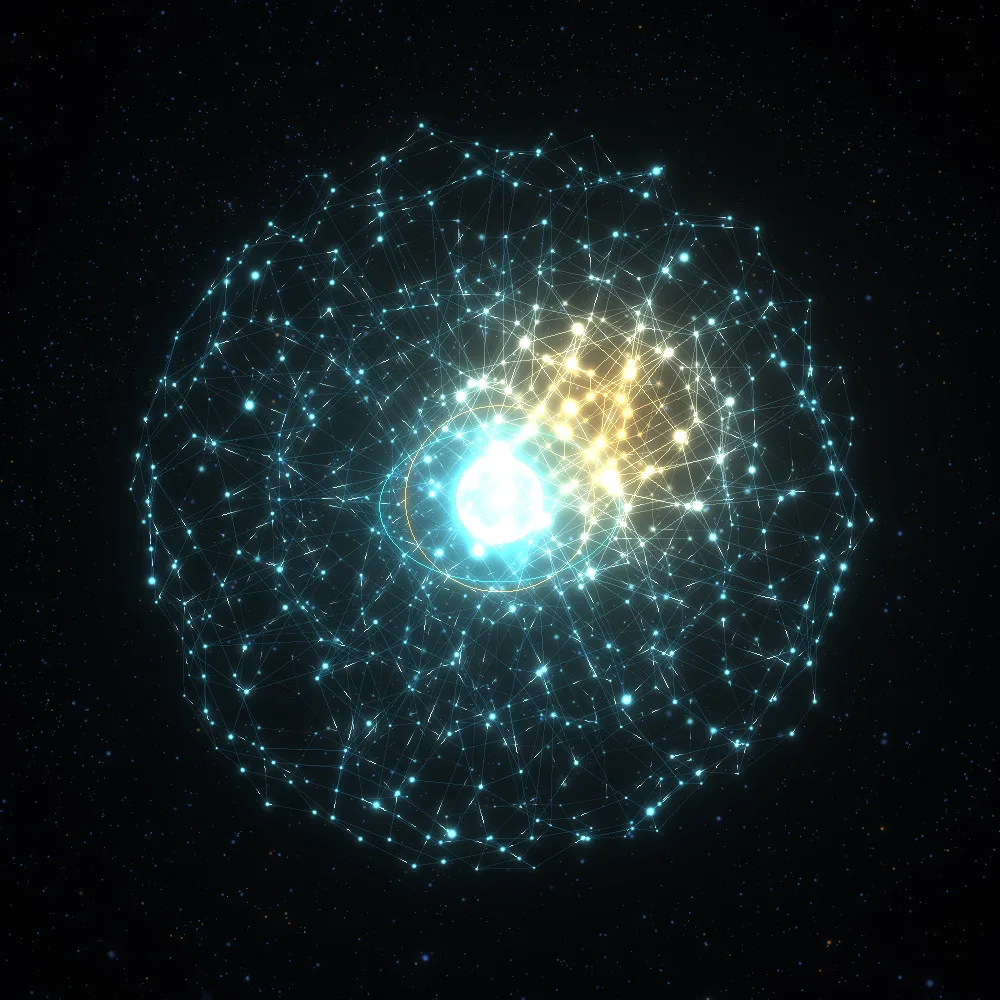
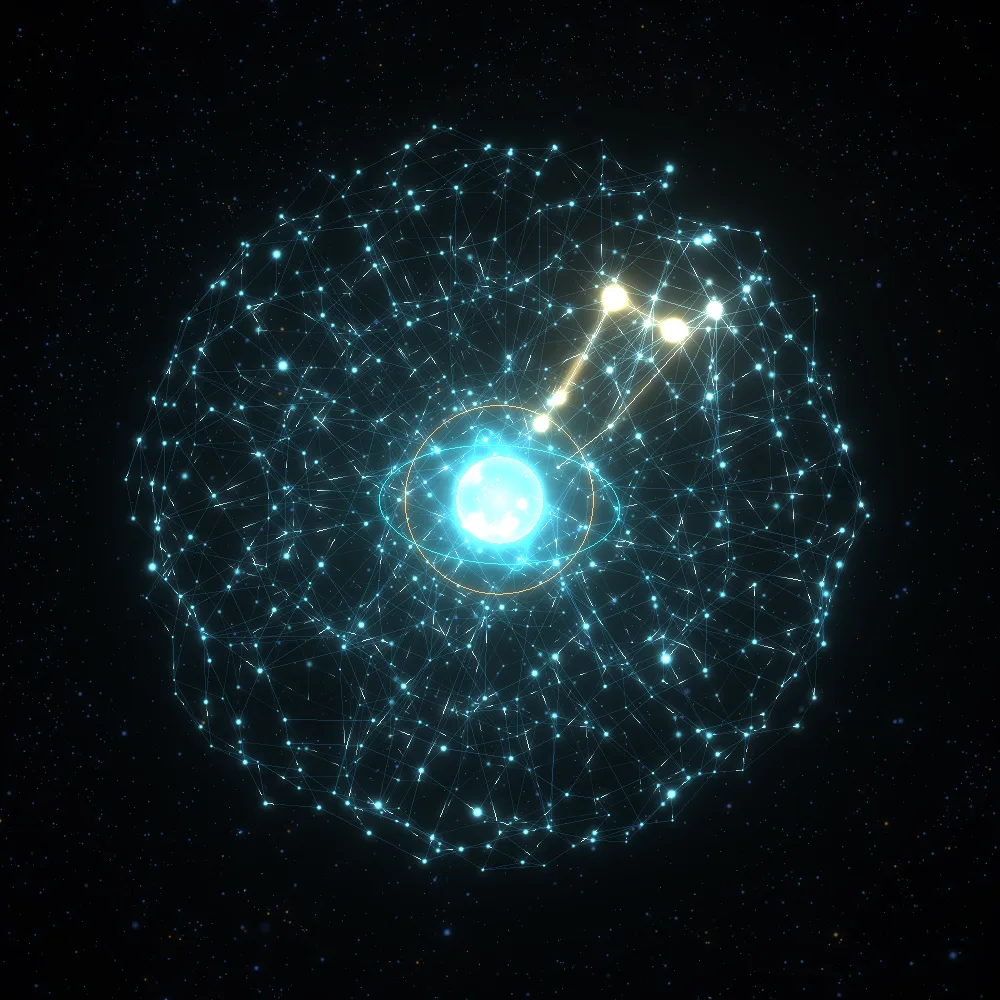
feat: 생각의 경로 — 커서가 가리키는 노드까지 중심에서 금색 경로가 이어짐
- 그래프의 최단 경로 트리(buildPathTree)와 테스트
- 경로 위의 연결선과 노드를 매 프레임 갱신, 중심 쪽부터 차례로 점등
- 파동과 커서 주변은 청록으로만 밝아지게 하고 금색은 경로와 도메인에만 사용
- 포스터·OG 이미지 갱신, 스펙에 반영

Claude-Session: https://claude.ai/code/session_01KHnMz2SQ8CTgWcbkeDqo96

Changed region(s): [[0.124, 0.124, 0.868, 0.868]]

diff --git a/src/components/hero/scene.ts b/src/components/hero/scene.ts
@@ -3,7 +3,9 @@ import * as THREE from 'three';
 import { EffectComposer } from 'three/addons/postprocessing/EffectComposer.js';
 import { RenderPass } from 'three/addons/postprocessing/RenderPass.js';
 import { UnrealBloomPass } from 'three/addons/postprocessing/UnrealBloomPass.js';
-import { buildGraph, mulberry32, randomDirection, SHELLS_HIGH, SHELLS_LOW } from './graph';
+import {
+  buildGraph, buildPathTree, mulberry32, nearestOuterNode, pathEdges, randomDirection, SHELLS_HIGH, SHELLS_LOW,
+} from './graph';
 import { domainReveal, smoothstep, stageValues } from './stages';
 import * as GLSL from './shaders';
 
@@ -69,7 +71,7 @@ export function createHeroScene(canvas: HTMLCanvasElement, opts: HeroSceneOption
     uRDir: { value: [new THREE.Vector3(0, 1, 0), new THREE.Vector3(0, 1, 0), new THREE.Vector3(0, 1, 0)] },
     uRT: { value: [99, 99, 99] }, uRAmp: { value: [0, 0, 0] },
     uMouse: { value: new THREE.Vector2(0.2, 0.1) }, uAspect: { value: 1 }, uPx: { value: 28 },
-    uCamZ: { value: 3.8 }, uDim: { value: 1 }, uEnergy: { value: 0 }, uDomain: { value: 0 }, uDomainCount: { value: opts.domainCount }, uHotR: { value: 0.42 },
+    uCamZ: { value: 3.8 }, uDim: { value: 1 }, uEnergy: { value: 0 }, uDomain: { value: 0 }, uDomainCount: { value: opts.domainCount }, uHotR: { value: 0.24 },
   };
   const additive = (vertexShader: string, fragmentShader: string) =>
     new THREE.ShaderMaterial({
@@ -84,9 +86,12 @@ export function createHeroScene(canvas: HTMLCanvasElement, opts: HeroSceneOption
     return obj;
   };
 
-  // 노드
+  // 노드. aNodePath는 생각의 경로 위에 있는 노드의 밝기로, 매 프레임 갱신한다.
+  const nodePathAttr = new THREE.BufferAttribute(new Float32Array(graph.count), 1);
+  nodePathAttr.setUsage(THREE.DynamicDrawUsage);
   {
     const g = new THREE.BufferGeometry();
+    g.setAttribute('aNodePath', nodePathAttr);
     f32(g, 'position', graph.positions, 3);
     f32(g, 'aFrom', graph.from, 3);
     f32(g, 'aSeed', graph.seeds, 1);
@@ -94,23 +99,29 @@ export function createHeroScene(canvas: HTMLCanvasElement, opts: HeroSceneOption
     add(new THREE.Points(g, additive(GLSL.NODE_VERT, GLSL.NODE_FRAG)));
   }
 
-  // 연결선과 신호
+  // 연결선과 신호. aPath는 "생각의 경로"에 속한 선의 밝기로, 매 프레임 갱신한다.
+  const tree = buildPathTree(graph);
+  const edgeCount = graph.edges.length / 2;
+  const pathAttr = new THREE.BufferAttribute(new Float32Array(edgeCount * 2), 1);
+  pathAttr.setUsage(THREE.DynamicDrawUsage);
   {
     const n = graph.edges.length;
     const pos = new Float32Array(n * 3), from = new Float32Array(n * 3);
     const seed = new Float32Array(n), aT = new Float32Array(n), phase = new Float32Array(n), speed = new Float32Array(n);
+    const depth = new Float32Array(n);
     for (let e = 0; e < n; e += 2) {
       const ph = rnd(), sp = rnd() < 0.45 ? 0.15 + rnd() * 0.45 : 0;
       for (let k = 0; k < 2; k++) {
         const node = graph.edges[e + k], v = e + k;
         pos.set(graph.positions.subarray(node * 3, node * 3 + 3), v * 3);
         from.set(graph.from.subarray(node * 3, node * 3 + 3), v * 3);
-        seed[v] = graph.seeds[node]; aT[v] = k; phase[v] = ph; speed[v] = sp;
+        seed[v] = graph.seeds[node]; aT[v] = k; phase[v] = ph; speed[v] = sp; depth[v] = tree.depth[node];
       }
     }
     const g = new THREE.BufferGeometry();
     f32(g, 'position', pos, 3); f32(g, 'aFrom', from, 3); f32(g, 'aSeed', seed, 1);
-    f32(g, 'aT', aT, 1); f32(g, 'aPhase', phase, 1); f32(g, 'aSpeed', speed, 1);
+    f32(g, 'aT', aT, 1); f32(g, 'aPhase', phase, 1); f32(g, 'aSpeed', speed, 1); f32(g, 'aDepth', depth, 1);
+    g.setAttribute('aPath', pathAttr);
     add(new THREE.LineSegments(g, additive(GLSL.EDGE_VERT, GLSL.EDGE_FRAG)));
   }
 
@@ -217,6 +228,11 @@ export function createHeroScene(canvas: HTMLCanvasElement, opts: HeroSceneOption
   let slot = 0, lastRipple = 0, shockAmp = 1, nextShock = 3.2;
   let time = 0, last = 0, raf = 0, running = false, disposed = false, fps = 60;
 
+  // 생각의 경로 상태. pathFlag: 지금 경로에 속하는가, pathReadyAt: 언제부터 켜질 수 있는가(중심에서 가까운 선부터 차례로)
+  const pathFlag = new Uint8Array(edgeCount), pathStrength = new Float32Array(edgeCount), pathReadyAt = new Float32Array(edgeCount);
+  const pathScratch = new Uint8Array(edgeCount), pathDir: [number, number, number] = [0, 0, 1];
+  let pathNode = -1;
+
   const ray = new THREE.Raycaster();
   const hit = new THREE.Vector3(), tmp = new THREE.Vector3(), ndc = new THREE.Vector2();
   const sphere = new THREE.Sphere();
@@ -242,11 +258,62 @@ export function createHeroScene(canvas: HTMLCanvasElement, opts: HeroSceneOption
     slot = (slot + 1) % 3;
   };
 
+  // 커서가 가리키는 노드가 바뀌면 경로를 다시 잡는다. 새로 들어온 선만 중심 쪽부터 순서대로 켠다.
+  function setPathNode(node: number) {
+    if (node === pathNode) return;
+    pathNode = node;
+    pathScratch.fill(0);
+    if (node >= 0) {
+      for (const e of pathEdges(tree, node)) {
+        pathScratch[e] = 1;
+        if (!pathFlag[e]) {
+          const fromCore = Math.max(tree.depth[graph.edges[e * 2]], tree.depth[graph.edges[e * 2 + 1]]) - 1;
+          pathReadyAt[e] = time + fromCore * 0.03;
+        }
+      }
+    }
+    pathFlag.set(pathScratch);
+  }
+
+  function updatePath(dt: number, dom: number) {
+    const dir = asm >= 1 && dom < 0.25 ? hitDirection(tmx, tmy) : null;
+    if (dir) {
+      pathDir[0] = dir.x; pathDir[1] = dir.y; pathDir[2] = dir.z;
+      setPathNode(nearestOuterNode(graph, pathDir));
+    } else setPathNode(-1);
+    const arr = pathAttr.array as Float32Array;
+    const rise = 1 - Math.exp(-dt * 16), fall = 1 - Math.exp(-dt * 3);
+    let dirty = false;
+    for (let e = 0; e < edgeCount; e++) {
+      const target = pathFlag[e] && time >= pathReadyAt[e] ? 1 : 0;
+      const s = pathStrength[e];
+      if (s === target) continue;
+      let next = s + (target - s) * (target > s ? rise : fall);
+      if (Math.abs(target - next) < 0.004) next = target;
+      pathStrength[e] = next;
+      arr[e * 2] = arr[e * 2 + 1] = next;
+      dirty = true;
+    }
+    if (!dirty) return;
+    pathAttr.needsUpdate = true;
+    // 경로 위의 노드도 함께 밝힌다
+    const nodes = nodePathAttr.array as Float32Array;
+    nodes.fill(0);
+    for (let e = 0; e < edgeCount; e++) {
+      const s = pathStrength[e];
+      if (s === 0) continue;
+      const a = graph.edges[e * 2], b = graph.edges[e * 2 + 1];
+      if (s > nodes[a]) nodes[a] = s;
+      if (s > nodes[b]) nodes[b] = s;
+    }
+    nodePathAttr.needsUpdate = true;
+  }
+
   function applyCamera(dom: number, camZ: number) {
     // 좁은 화면의 도메인 장면에서는 이름표가 화면 안에 들어오도록 카메라를 더 물린다
     const f = fit * (narrow ? 1 + 0.85 * dom : 1);
     camera.position.set(-mx * 0.3 * f, -my * 0.18 * f, camZ * f);
-    U.uHotR.value = 0.42 / f; // 커서 반응 반경은 화면이 아니라 구체 크기에 비례한다
+    U.uHotR.value = 0.24 / f; // 커서 반응 반경은 화면이 아니라 구체 크기에 비례한다
     camera.lookAt(0, 0, 0);
     // 구체 중심을 화면 가로 62%(좁은 화면은 위쪽 36%)에 두고, 도메인 장면에서는 가운데로 옮긴다
     const offX = narrow ? 0 : -0.12 * W * (1 - dom);
@@ -290,6 +357,8 @@ export function createHeroScene(canvas: HTMLCanvasElement, opts: HeroSceneOption
     U.uCamZ.value = camera.position.z;
     U.uDim.value = 1 - 0.55 * dom;
     U.uDomain.value = dom;
+
+    updatePath(dt, dom);
 
     // 충격파: 방치하면 3.4초마다 자동 발생
     U.uShockT.value += dt;
@@ -342,7 +411,7 @@ export function createHeroScene(canvas: HTMLCanvasElement, opts: HeroSceneOption
       travel += d;
       if (travel > 0.22) {
         travel = 0;
-        ripple(hitDirection(nx, ny), 0.6);
+        ripple(hitDirection(nx, ny), 0.3);
       }
     },
     setProgress(value) {

diff --git a/src/components/hero/shaders.ts b/src/components/hero/shaders.ts
@@ -40,48 +40,56 @@ const PLACE = /* glsl */ `
 
 export const NODE_VERT = /* glsl */ `
   ${PLACE}
-  attribute float aSize;
+  attribute float aSize, aNodePath;
+  varying float vNodePath;
   void main() {
     vec4 mv = place();
+    vNodePath = aNodePath;
     gl_Position = projectionMatrix * mv;
-    gl_PointSize = min(aSize * uPx * (1.0 + vHot * 1.6 + vWave * 1.4 + uEnergy * 0.4) / -mv.z, uPx * 2.6);
+    gl_PointSize = min(aSize * uPx * (1.0 + vHot * 1.2 + vWave * 1.4 + uEnergy * 0.4 + aNodePath * 2.1) / -mv.z, uPx * 2.6);
   }
 `;
 
 export const NODE_FRAG = /* glsl */ `
   uniform float uDim;
-  varying float vHot, vFade, vWave;
+  varying float vHot, vFade, vWave, vNodePath;
   void main() {
     float d = length(gl_PointCoord - 0.5);
     if (d > 0.5) discard;
     float c = 1.0 - smoothstep(0.06, 0.5, d);
-    float w = clamp(vHot + vWave * 1.5, 0.0, 1.0);
-    vec3 col = mix(vec3(0.42, 0.9, 1.0), vec3(1.0, 0.7, 0.3), w);
-    gl_FragColor = vec4(col * (0.5 + c * 0.9 + vWave * 0.6), c * vFade * uDim);
+    float w = clamp(vHot * 0.7 + vWave * 1.5, 0.0, 1.0);
+    // 파동과 커서 주변은 흰 청록으로 밝아지기만 한다. 금색은 생각의 경로와 도메인에만 쓴다.
+    vec3 col = mix(vec3(0.42, 0.9, 1.0), vec3(0.85, 1.0, 1.0), w);
+    col = mix(col, vec3(1.0, 0.82, 0.5), vNodePath); // 생각의 경로 위의 노드는 따뜻한 흰빛 구슬로
+    gl_FragColor = vec4(col * (0.5 + c * 0.9 + vWave * 0.6 + vNodePath * 0.9), c * max(vFade, vNodePath * 0.7) * uDim);
   }
 `;
 
 export const EDGE_VERT = /* glsl */ `
   ${PLACE}
-  attribute float aT, aPhase, aSpeed;
-  varying float vT, vPhase, vSpeed;
+  attribute float aT, aPhase, aSpeed, aPath, aDepth;
+  varying float vT, vPhase, vSpeed, vPath, vDepth;
   void main() {
-    vT = aT; vPhase = aPhase; vSpeed = aSpeed;
+    vT = aT; vPhase = aPhase; vSpeed = aSpeed; vPath = aPath; vDepth = aDepth;
     gl_Position = projectionMatrix * place();
   }
 `;
 
 // 선의 일부(aSpeed > 0)에는 빛 점이 선을 따라 달린다.
+// aPath가 켜진 선은 "생각의 경로"다: 중심에서 커서가 가리키는 노드까지 밝게 이어지고,
+// vDepth(중심에서의 거리)를 따라 빛이 바깥쪽으로 흐른다.
 export const EDGE_FRAG = /* glsl */ `
-  uniform float uSigT, uDim, uEnergy;
-  varying float vT, vPhase, vSpeed, vHot, vFade, vWave;
+  uniform float uTime, uSigT, uDim, uEnergy;
+  varying float vT, vPhase, vSpeed, vHot, vFade, vWave, vPath, vDepth;
   void main() {
     float s = fract(vT - uSigT * vSpeed + vPhase);
     float pulse = smoothstep(0.8, 1.0, s) * step(0.001, vSpeed);
     float w = clamp(vHot + vWave * 1.5, 0.0, 1.0);
-    vec3 col = mix(vec3(0.16, 0.62, 0.85), vec3(1.0, 0.66, 0.26), w);
-    float a = (0.2 + vHot * 0.7 + vWave * 0.55 + uEnergy * 0.18) * vFade * uDim;
-    gl_FragColor = vec4(col * a + vec3(0.8, 1.0, 1.0) * pulse * vFade * uDim, 1.0);
+    vec3 col = mix(vec3(0.16, 0.62, 0.85), vec3(0.6, 0.95, 1.0), w);
+    float a = (0.2 + vHot * 0.3 + vWave * 0.55 + uEnergy * 0.18) * vFade * uDim;
+    float flow = smoothstep(0.65, 1.0, fract(vDepth * 0.4 - uTime * 1.5));
+    vec3 path = vec3(1.0, 0.72, 0.32) * vPath * (2.0 + flow * 3.0) * max(vFade, 0.6) * uDim;
+    gl_FragColor = vec4(col * a + vec3(0.8, 1.0, 1.0) * pulse * vFade * uDim + path, 1.0);
   }
 `;
 

diff --git a/src/components/hero/graph.ts b/src/components/hero/graph.ts
@@ -13,6 +13,8 @@ export const DOMAIN_DIRS: [number, number, number][] = [-38, 0, 38, 142, 180, 21
 export interface Graph {
   count: number;
   outerCount: number;
+  /** 가장 안쪽 껍질이 시작하는 노드 인덱스. 이 뒤의 노드가 중심(AI)에 가장 가깝다 */
+  coreStart: number;
   positions: Float32Array;
   from: Float32Array;
   seeds: Float32Array;
@@ -118,5 +120,65 @@ export function buildGraph(opts: { seed: number; shells: Shell[]; domainCount: n
     domainNodes.push(best);
   }
 
-  return { count, outerCount, positions, from, seeds, sizes, edges: new Uint16Array(pairs), domainNodes };
+  const coreStart = starts[opts.shells.length - 1];
+  return { count, outerCount, coreStart, positions, from, seeds, sizes, edges: new Uint16Array(pairs), domainNodes };
+}
+
+// ---------- 생각의 경로 ----------
+// 커서가 가리키는 노드에서 중심(AI)까지 신경망을 따라 가는 최단 경로.
+
+export interface PathTree {
+  /** 중심 쪽으로 한 칸 간 노드. 출발점이거나 닿지 않으면 -1 */
+  parent: Int32Array;
+  /** 그 한 칸에 해당하는 연결선 번호(쌍 단위). 없으면 -1 */
+  parentEdge: Int32Array;
+  /** 중심까지의 연결선 수. 가장 안쪽 껍질은 0, 닿지 않으면 -1 */
+  depth: Int32Array;
+}
+
+export function buildPathTree(graph: Graph): PathTree {
+  const { count, edges, coreStart } = graph;
+  const adjacency: [neighbor: number, edge: number][][] = Array.from({ length: count }, () => []);
+  for (let e = 0; e < edges.length / 2; e++) {
+    const a = edges[e * 2], b = edges[e * 2 + 1];
+    adjacency[a].push([b, e]);
+    adjacency[b].push([a, e]);
+  }
+  const parent = new Int32Array(count).fill(-1);
+  const parentEdge = new Int32Array(count).fill(-1);
+  const depth = new Int32Array(count).fill(-1);
+  const queue: number[] = [];
+  for (let i = coreStart; i < count; i++) { depth[i] = 0; queue.push(i); }
+  for (let head = 0; head < queue.length; head++) {
+    const node = queue[head];
+    for (const [next, edge] of adjacency[node]) {
+      if (depth[next] !== -1) continue;
+      depth[next] = depth[node] + 1;
+      parent[next] = node;
+      parentEdge[next] = edge;
+      queue.push(next);
+    }
+  }
+  return { parent, parentEdge, depth };
+}
+
+/** node에서 중심까지 가는 연결선 번호들. 바깥에서 안쪽 순서. */
+export function pathEdges(tree: PathTree, node: number): number[] {
+  const out: number[] = [];
+  for (let current = node; tree.parentEdge[current] !== -1; current = tree.parent[current]) {
+    out.push(tree.parentEdge[current]);
+  }
+  return out;
+}
+
+/** 주어진 방향(구체 로컬 좌표)에 가장 가까운 바깥 껍질 노드 */
+export function nearestOuterNode(graph: Graph, dir: readonly [number, number, number]): number {
+  const { positions, outerCount } = graph;
+  let best = 0, bestDot = -Infinity;
+  for (let i = 0; i < outerCount; i++) {
+    const x = positions[i * 3], y = positions[i * 3 + 1], z = positions[i * 3 + 2];
+    const dot = (x * dir[0] + y * dir[1] + z * dir[2]) / Math.hypot(x, y, z);
+    if (dot > bestDot) { bestDot = dot; best = i; }
+  }
+  return best;
 }

diff --git a/src/components/hero/__tests__/path.test.ts b/src/components/hero/__tests__/path.test.ts
@@ -1,0 +1,50 @@
+import { describe, expect, it } from 'vitest';
+import { buildGraph, buildPathTree, nearestOuterNode, pathEdges, SHELLS_HIGH, SHELLS_LOW } from '../graph';
+
+for (const [name, shells] of [['high', SHELLS_HIGH], ['low', SHELLS_LOW]] as const) {
+  describe(`생각의 경로 (${name})`, () => {
+    const g = buildGraph({ seed: 20261006, shells, domainCount: 6 });
+    const tree = buildPathTree(g);
+
+    it('가장 안쪽 껍질의 노드가 출발점(깊이 0)이다', () => {
+      expect(g.coreStart).toBeGreaterThan(g.outerCount);
+      for (let i = g.coreStart; i < g.count; i++) {
+        expect(tree.depth[i]).toBe(0);
+        expect(tree.parentEdge[i]).toBe(-1);
+      }
+    });
+
+    it('모든 바깥 노드에서 중심까지 경로가 이어진다', () => {
+      for (let i = 0; i < g.outerCount; i++) {
+        const edges = pathEdges(tree, i);
+        expect(edges.length).toBe(tree.depth[i]);
+        expect(edges.length).toBeGreaterThan(0);
+        // 경로를 따라가면 깊이가 1씩 줄고, 각 연결선은 현재 노드와 부모를 잇는다
+        let node = i;
+        for (const e of edges) {
+          const a = g.edges[e * 2], b = g.edges[e * 2 + 1];
+          expect(a === node || b === node).toBe(true);
+          const next = a === node ? b : a;
+          expect(tree.depth[next]).toBe(tree.depth[node] - 1);
+          node = next;
+        }
+        expect(node).toBeGreaterThanOrEqual(g.coreStart);
+      }
+    });
+
+    it('경로는 최단이다: 이웃의 깊이는 1 넘게 차이 나지 않는다', () => {
+      for (let e = 0; e < g.edges.length / 2; e++) {
+        const a = g.edges[e * 2], b = g.edges[e * 2 + 1];
+        expect(Math.abs(tree.depth[a] - tree.depth[b])).toBeLessThanOrEqual(1);
+      }
+    });
+
+    it('방향에서 가장 가까운 바깥 노드를 찾는다', () => {
+      for (const i of [0, 7, Math.floor(g.outerCount / 2), g.outerCount - 1]) {
+        const dir: [number, number, number] = [g.positions[i * 3], g.positions[i * 3 + 1], g.positions[i * 3 + 2]];
+        expect(nearestOuterNode(g, dir)).toBe(i);
+      }
+      expect(nearestOuterNode(g, [0, 0, 1])).toBeLessThan(g.outerCount);
+    });
+  });
+}

diff --git a/docs/superpowers/specs/2026-10-06-v2-home-design.md b/docs/superpowers/specs/2026-10-06-v2-home-design.md
@@ -83,6 +83,7 @@
 ### 4.3 즉각 반응 (핵심 요구)
 | 입력 | 반응 |
 |---|---|
+| 커서를 구체에 올림 | **생각의 경로**: 커서가 가리키는 바깥 노드에서 중심(AI)까지의 최단 경로가 금색 선과 구슬로 켜지고, 빛이 중심에서 바깥으로 흐름. 중심에 가까운 선부터 30ms 간격으로 차례로 켜지고, 커서나 구체가 움직이면 경로가 따라 바뀜. 도메인 장면에서는 꺼짐 |
 | 마우스 이동 | 커서 반경 안의 노드가 바깥으로 13% 부풀고 주황으로 변함(추종 계수 0.45). 구체가 커서 방향으로 회전(계수 0.14). 카메라 시차. 화면상 0.22 이동할 때마다 닿은 지점에서 파문 발생. 커서 주변 발광 원 |
 | 스크롤(휠) | 스크롤 속도만큼 "에너지"가 쌓여 노드가 방사형으로 최대 약 30% 터졌다가 복귀(감쇠 2.6/s). 구체에 회전 속도가 더해짐. 신호 속도 최대 약 10배, 블룸 강도 최대 약 2배. 정면에서 파문 발생 |
 | 클릭·탭 | 그 지점에서 큰 충격파 |
@@ -90,9 +91,12 @@
 | 터치 | 드래그 = 마우스 이동과 동일, 탭 = 클릭과 동일 |
 
 - 파문은 동시에 3개까지(순환 슬롯), 최소 간격 200ms.
+- 색 규칙: 신경망·파동·커서 주변은 청록 계열로만 밝아진다. 금색은 생각의 경로와 도메인(광선·표식·이름표)에만 쓴다.
+- 구현 중 조정: 파문 진폭과 블룸 부스트는 화면이 하얗게 타지 않도록 초안보다 낮췄다(커서 파문 0.3, 스크롤 파문 0.7, 클릭 1.5, 블룸 +0.3×에너지). 커서 반응 반경은 0.24(화면 높이의 절반 기준)로, 구체 크기에 비례한다.
 
 ### 4.4 도메인 장면
 - 도메인은 6개: **공공, 금융, 소방, 방송, 교육, 유통**. `src/data/site.ts`에서 바꿀 수 있다.
+- **순차 점화**: 여섯 개가 한꺼번에 켜지지 않는다. 도메인 장면 진행도에 따라 번호 순서대로(오른쪽 위부터 시계 방향) 광선이 중심에서 자라나 노드에 닿는 순간 표식이 커졌다 돌아오고 이름표가 켜진다. 식은 `stages.ts`의 `domainReveal`과 셰이더의 `reveal`이 같다.
 - 도메인 노드는 정면 반구의 미리 정한 6방향에서 가장 가까운 바깥 노드로 고른다. 정면 자세로 수렴했을 때 이름표가 겹치지 않아야 한다.
 - 이름표는 3D 위에 얹은 **HTML 텍스트**다 (19px 굵게, 어두운 알약 배경, 주황 테두리). 중심에는 "AI" 이름표. 장면 모듈이 매 프레임 화면 좌표를 넘기고, 컴포넌트는 React 상태를 거치지 않고 `transform`만 갱신한다.
 - 구체 왼쪽 노드의 이름표는 노드 왼쪽에, 오른쪽 노드는 오른쪽에 붙인다.
